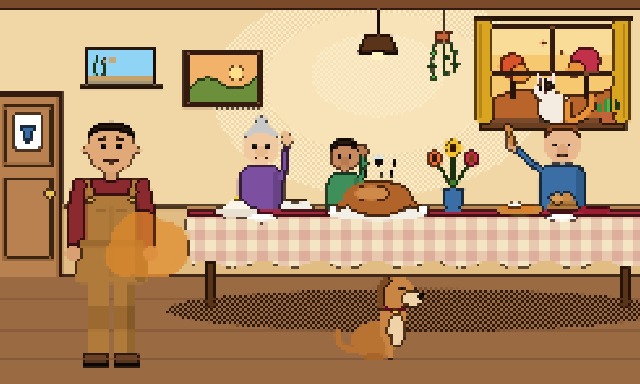
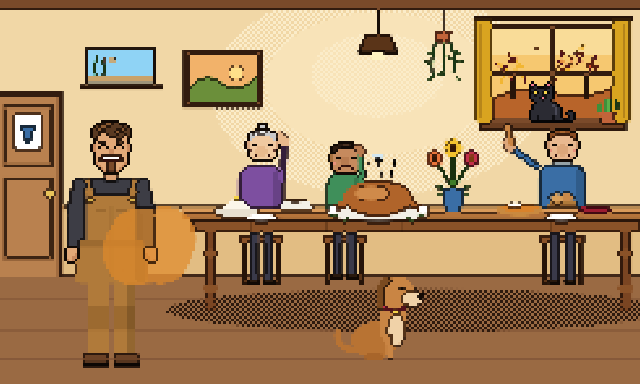
Release: Feed the Fart drawn from his photos

diff --git a/feed-the-fart/index.html b/feed-the-fart/index.html
@@ -101,6 +101,10 @@ svg.noses .fanHand{display:inline;animation:fan .3s ease-in-out infinite alterna
 svg.noses .pmouth{display:none}
 .pmouthEw{display:none}
 svg.noses .pmouthEw{display:inline}
+#scene image{image-rendering:pixelated}
+.fall{animation:fall 7s linear infinite;transform-box:view-box}
+.fall.f1{animation-delay:-2.5s;animation-duration:8s}.fall.f2{animation-delay:-5s;animation-duration:6.5s}
+@keyframes fall{0%{transform:translate(0,-10px)}25%{transform:translate(10px,25px)}50%{transform:translate(-4px,55px)}75%{transform:translate(8px,85px)}100%{transform:translate(0,115px)}}
 #flyWing{animation:buzz .08s linear infinite alternate}
 @keyframes buzz{to{opacity:.2}}
 #flyLoop{animation:loop 3s linear infinite;transform-box:view-box;transform-origin:470px 195px}
@@ -121,7 +125,7 @@ svg.noses #fishHide{transform:translate(-14px,-6px) scale(.6);opacity:.55}
 svg.wilt #hangLeaves{transform:scaleY(1.2) scaleX(.8);filter:saturate(.15) brightness(.75)}
 #cactus{transition:transform .6s ease-in;transform-box:view-box;transform-origin:756px 148px}
 svg.wilt #cactus{transform:rotate(85deg)}
-@media (prefers-reduced-motion:reduce){.pull.ready,#tip,#flyLoop,#flyWing,svg.noses .fanHand,.steam path,#fish{animation:none}}
+@media (prefers-reduced-motion:reduce){.pull.ready,#tip,#flyLoop,#flyWing,svg.noses .fanHand,.steam path,#fish,.fall{animation:none}}
 </style>
 </head>
 <body>
@@ -139,12 +143,10 @@ svg.wilt #cactus{transform:rotate(85deg)}
   <div class="stage" id="stage">
     <svg id="scene" viewBox="0 0 800 460" role="img" aria-label="Thanksgiving dinner. The plumber stands by the table, with the family, a dog under the table and a cat on the windowsill." data-face="normal">
       <defs>
-        <!-- Dithers line up with the game's pixels: one canvas pixel is 800/256 = 3.125 SVG units.
-             The gingham is faint on purpose: stronger checks crossed the outline pass's
-             brightness jump and every square got a dark box round it. -->
+        <!-- Dithers line up with the game's pixels: one canvas pixel is 800/256 = 3.125 SVG units. -->
         <pattern id="dLight" width="6.25" height="6.25" patternUnits="userSpaceOnUse"><rect width="3.125" height="3.125" fill="#fbecc9"/><rect x="3.125" y="3.125" width="3.125" height="3.125" fill="#fbecc9"/></pattern>
         <pattern id="dShade" width="6.25" height="6.25" patternUnits="userSpaceOnUse"><rect width="3.125" height="3.125" fill="#6e4528"/><rect x="3.125" y="3.125" width="3.125" height="3.125" fill="#6e4528"/></pattern>
-        <pattern id="gingham" width="25" height="25" patternUnits="userSpaceOnUse"><rect width="25" height="25" fill="#f4e6c4"/><rect width="12.5" height="25" fill="#a01830" opacity=".15"/><rect width="25" height="12.5" fill="#a01830" opacity=".15"/></pattern>
+        <clipPath id="winClip"><rect x="608" y="36" width="144" height="106"/></clipPath>
       </defs>
       <!-- room -->
       <rect width="800" height="330" fill="#f1d7a6"/>
@@ -163,9 +165,7 @@ svg.wilt #cactus{transform:rotate(85deg)}
       <path d="M537 38h22l-3 14h-16z" fill="#c2643a"/>
       <g id="hangLeaves">
         <path d="M540 50q-8 20-4 44M548 52q0 22 2 40M556 50q8 18 4 38" stroke="#3f8f3a" stroke-width="3" fill="none"/>
-        <ellipse cx="537" cy="64" rx="5" ry="3" fill="#5ab04a"/><ellipse cx="535" cy="80" rx="5" ry="3" fill="#3f8f3a"/><ellipse cx="537" cy="94" rx="5" ry="3" fill="#5ab04a"/>
-        <ellipse cx="552" cy="70" rx="5" ry="3" fill="#3f8f3a"/><ellipse cx="551" cy="88" rx="5" ry="3" fill="#5ab04a"/>
-        <ellipse cx="562" cy="62" rx="5" ry="3" fill="#5ab04a"/><ellipse cx="563" cy="78" rx="5" ry="3" fill="#3f8f3a"/>
+        <path transform="translate(538 62) rotate(160)" d="M0 0q6 -4.0 12 0q-6 4.0 -12 0z" fill="#4f9a3a"/><path transform="translate(538 62) rotate(160)" d="M1 0h8.4" stroke="#8fd06a" stroke-width="1.6"/><path transform="translate(536 78) rotate(200)" d="M0 0q6 -4.0 12 0q-6 4.0 -12 0z" fill="#3f7d2a"/><path transform="translate(536 78) rotate(200)" d="M1 0h8.4" stroke="#8fd06a" stroke-width="1.6"/><path transform="translate(537 92) rotate(150)" d="M0 0q6 -4.0 12 0q-6 4.0 -12 0z" fill="#4f9a3a"/><path transform="translate(537 92) rotate(150)" d="M1 0h8.4" stroke="#8fd06a" stroke-width="1.6"/><path transform="translate(551 68) rotate(20)" d="M0 0q6 -4.0 12 0q-6 4.0 -12 0z" fill="#3f7d2a"/><path transform="translate(551 68) rotate(20)" d="M1 0h8.4" stroke="#8fd06a" stroke-width="1.6"/><path transform="translate(551 86) rotate(160)" d="M0 0q6 -4.0 12 0q-6 4.0 -12 0z" fill="#4f9a3a"/><path transform="translate(551 86) rotate(160)" d="M1 0h8.4" stroke="#8fd06a" stroke-width="1.6"/><path transform="translate(560 60) rotate(30)" d="M0 0q6 -4.0 12 0q-6 4.0 -12 0z" fill="#4f9a3a"/><path transform="translate(560 60) rotate(30)" d="M1 0h8.4" stroke="#8fd06a" stroke-width="1.6"/><path transform="translate(562 76) rotate(-20)" d="M0 0q6 -4.0 12 0q-6 4.0 -12 0z" fill="#3f7d2a"/><path transform="translate(562 76) rotate(-20)" d="M1 0h8.4" stroke="#8fd06a" stroke-width="1.6"/><path transform="translate(561 90) rotate(40)" d="M0 0q6 -4.0 12 0q-6 4.0 -12 0z" fill="#4f9a3a"/><path transform="translate(561 90) rotate(40)" d="M1 0h8.4" stroke="#8fd06a" stroke-width="1.6"/>
       </g>
       <!-- a picture on the wall: hills at sunset -->
       <rect x="236" y="60" width="96" height="70" fill="#7a4a2a"/><rect x="243" y="67" width="82" height="56" fill="#f2b26a"/>
@@ -191,9 +191,9 @@ svg.wilt #cactus{transform:rotate(85deg)}
       <rect x="608" y="36" width="144" height="106" fill="#f6c870"/>
       <rect x="608" y="36" width="144" height="30" fill="#f9dc98"/>
       <path d="M608 118q30-18 70-8t74-6v38h-144z" fill="#b8642a"/>
-      <rect x="628" y="88" width="6" height="30" fill="#5a3418"/><circle cx="631" cy="80" r="16" fill="#d9542a"/><circle cx="642" cy="90" r="11" fill="#e8923a"/>
-      <rect x="716" y="84" width="6" height="34" fill="#5a3418"/><circle cx="719" cy="74" r="18" fill="#c2304a"/><circle cx="706" cy="84" r="10" fill="#e8923a"/>
-      <circle cx="668" cy="52" r="3" fill="#d9542a"/><circle cx="690" cy="64" r="3" fill="#e8923a"/>
+      <rect x="628" y="88" width="6" height="30" fill="#5a3418"/><path transform="translate(644 90) rotate(76)" d="M0 0q5 -3.3 10 0q-5 3.3 -10 0z" fill="#c2304a"/><path transform="translate(637 71) rotate(154)" d="M0 0q5 -3.3 10 0q-5 3.3 -10 0z" fill="#d9542a"/><path transform="translate(618 92) rotate(339)" d="M0 0q5 -3.3 10 0q-5 3.3 -10 0z" fill="#f2b632"/><path transform="translate(617 80) rotate(207)" d="M0 0q5 -3.3 10 0q-5 3.3 -10 0z" fill="#c2304a"/><path transform="translate(626 72) rotate(273)" d="M0 0q5 -3.3 10 0q-5 3.3 -10 0z" fill="#d9542a"/><path transform="translate(625 80) rotate(118)" d="M0 0q5 -3.3 10 0q-5 3.3 -10 0z" fill="#d9542a"/><path transform="translate(612 76) rotate(26)" d="M0 0q5 -3.3 10 0q-5 3.3 -10 0z" fill="#f2b632"/><path transform="translate(630 93) rotate(219)" d="M0 0q5 -3.3 10 0q-5 3.3 -10 0z" fill="#e8923a"/><path transform="translate(629 89) rotate(87)" d="M0 0q5 -3.3 10 0q-5 3.3 -10 0z" fill="#c2304a"/><path transform="translate(627 83) rotate(210)" d="M0 0q5 -3.3 10 0q-5 3.3 -10 0z" fill="#c2304a"/><path transform="translate(621 93) rotate(123)" d="M0 0q5 -3.3 10 0q-5 3.3 -10 0z" fill="#f2b632"/><path transform="translate(631 87) rotate(158)" d="M0 0q5 -3.3 10 0q-5 3.3 -10 0z" fill="#e8923a"/><path transform="translate(618 85) rotate(66)" d="M0 0q5 -3.3 10 0q-5 3.3 -10 0z" fill="#f2b632"/><path transform="translate(635 72) rotate(54)" d="M0 0q5 -3.3 10 0q-5 3.3 -10 0z" fill="#f2b632"/><path transform="translate(635 69) rotate(130)" d="M0 0q5 -3.3 10 0q-5 3.3 -10 0z" fill="#d9542a"/><path transform="translate(634 70) rotate(152)" d="M0 0q5 -3.3 10 0q-5 3.3 -10 0z" fill="#c2304a"/><path transform="translate(627 86) rotate(212)" d="M0 0q5 -3.3 10 0q-5 3.3 -10 0z" fill="#f2b632"/><path transform="translate(623 82) rotate(134)" d="M0 0q5 -3.3 10 0q-5 3.3 -10 0z" fill="#c2304a"/><path transform="translate(634 87) rotate(286)" d="M0 0q5 -3.3 10 0q-5 3.3 -10 0z" fill="#f2b632"/><path transform="translate(620 83) rotate(141)" d="M0 0q5 -3.3 10 0q-5 3.3 -10 0z" fill="#d9542a"/><path transform="translate(645 80) rotate(181)" d="M0 0q5 -3.3 10 0q-5 3.3 -10 0z" fill="#f2b632"/><path transform="translate(623 90) rotate(327)" d="M0 0q5 -3.3 10 0q-5 3.3 -10 0z" fill="#d9542a"/><path transform="translate(644 85) rotate(102)" d="M0 0q5 -3.3 10 0q-5 3.3 -10 0z" fill="#f2b632"/><path transform="translate(622 92) rotate(270)" d="M0 0q5 -3.3 10 0q-5 3.3 -10 0z" fill="#f2b632"/><path transform="translate(627 93) rotate(337)" d="M0 0q5 -3.3 10 0q-5 3.3 -10 0z" fill="#e8923a"/><path transform="translate(631 88) rotate(357)" d="M0 0q5 -3.3 10 0q-5 3.3 -10 0z" fill="#c2304a"/>
+      <rect x="716" y="84" width="6" height="34" fill="#5a3418"/><path transform="translate(693 81) rotate(5)" d="M0 0q5 -3.3 10 0q-5 3.3 -10 0z" fill="#d9542a"/><path transform="translate(694 71) rotate(130)" d="M0 0q5 -3.3 10 0q-5 3.3 -10 0z" fill="#e8923a"/><path transform="translate(692 78) rotate(211)" d="M0 0q5 -3.3 10 0q-5 3.3 -10 0z" fill="#d9542a"/><path transform="translate(699 80) rotate(105)" d="M0 0q5 -3.3 10 0q-5 3.3 -10 0z" fill="#d9542a"/><path transform="translate(707 68) rotate(289)" d="M0 0q5 -3.3 10 0q-5 3.3 -10 0z" fill="#f2b632"/><path transform="translate(695 66) rotate(217)" d="M0 0q5 -3.3 10 0q-5 3.3 -10 0z" fill="#d9542a"/><path transform="translate(702 83) rotate(218)" d="M0 0q5 -3.3 10 0q-5 3.3 -10 0z" fill="#c2304a"/><path transform="translate(697 81) rotate(166)" d="M0 0q5 -3.3 10 0q-5 3.3 -10 0z" fill="#d9542a"/><path transform="translate(726 81) rotate(222)" d="M0 0q5 -3.3 10 0q-5 3.3 -10 0z" fill="#e8923a"/><path transform="translate(727 78) rotate(28)" d="M0 0q5 -3.3 10 0q-5 3.3 -10 0z" fill="#c2304a"/><path transform="translate(708 62) rotate(24)" d="M0 0q5 -3.3 10 0q-5 3.3 -10 0z" fill="#d9542a"/><path transform="translate(693 83) rotate(11)" d="M0 0q5 -3.3 10 0q-5 3.3 -10 0z" fill="#f2b632"/><path transform="translate(720 81) rotate(348)" d="M0 0q5 -3.3 10 0q-5 3.3 -10 0z" fill="#d9542a"/><path transform="translate(715 65) rotate(114)" d="M0 0q5 -3.3 10 0q-5 3.3 -10 0z" fill="#c2304a"/><path transform="translate(720 88) rotate(314)" d="M0 0q5 -3.3 10 0q-5 3.3 -10 0z" fill="#c2304a"/><path transform="translate(692 73) rotate(256)" d="M0 0q5 -3.3 10 0q-5 3.3 -10 0z" fill="#c2304a"/><path transform="translate(704 75) rotate(242)" d="M0 0q5 -3.3 10 0q-5 3.3 -10 0z" fill="#d9542a"/><path transform="translate(706 81) rotate(307)" d="M0 0q5 -3.3 10 0q-5 3.3 -10 0z" fill="#d9542a"/><path transform="translate(707 73) rotate(357)" d="M0 0q5 -3.3 10 0q-5 3.3 -10 0z" fill="#c2304a"/><path transform="translate(727 83) rotate(333)" d="M0 0q5 -3.3 10 0q-5 3.3 -10 0z" fill="#d9542a"/><path transform="translate(691 78) rotate(228)" d="M0 0q5 -3.3 10 0q-5 3.3 -10 0z" fill="#c2304a"/><path transform="translate(730 79) rotate(195)" d="M0 0q5 -3.3 10 0q-5 3.3 -10 0z" fill="#d9542a"/><path transform="translate(711 70) rotate(249)" d="M0 0q5 -3.3 10 0q-5 3.3 -10 0z" fill="#f2b632"/><path transform="translate(727 79) rotate(58)" d="M0 0q5 -3.3 10 0q-5 3.3 -10 0z" fill="#d9542a"/><path transform="translate(724 81) rotate(299)" d="M0 0q5 -3.3 10 0q-5 3.3 -10 0z" fill="#d9542a"/><path transform="translate(689 79) rotate(149)" d="M0 0q5 -3.3 10 0q-5 3.3 -10 0z" fill="#e8923a"/><path transform="translate(711 60) rotate(319)" d="M0 0q5 -3.3 10 0q-5 3.3 -10 0z" fill="#f2b632"/><path transform="translate(706 61) rotate(72)" d="M0 0q5 -3.3 10 0q-5 3.3 -10 0z" fill="#c2304a"/><path transform="translate(697 77) rotate(15)" d="M0 0q5 -3.3 10 0q-5 3.3 -10 0z" fill="#e8923a"/><path transform="translate(727 74) rotate(302)" d="M0 0q5 -3.3 10 0q-5 3.3 -10 0z" fill="#c2304a"/>
+      <g clip-path="url(#winClip)"><g class="fall f0"><path transform="translate(650 40) rotate(20)" d="M0 0q4 -2.7 8 0q-4 2.7 -8 0z" fill="#e8923a"/></g><g class="fall f1"><path transform="translate(690 40) rotate(140)" d="M0 0q4 -2.7 8 0q-4 2.7 -8 0z" fill="#d9542a"/></g><g class="fall f2"><path transform="translate(735 40) rotate(70)" d="M0 0q4 -2.7 8 0q-4 2.7 -8 0z" fill="#f2b632"/></g></g>
       <path d="M680 36v106M608 89h144" stroke="#7a4a2a" stroke-width="6"/>
       <rect x="584" y="20" width="192" height="6" fill="#5a3418"/>
       <path d="M586 24h22v120q-10 8-22 0z" fill="#d9a420"/><path d="M594 28v112" stroke="#b5841a" stroke-width="3"/>
@@ -204,43 +204,27 @@ svg.wilt #cactus{transform:rotate(85deg)}
         <rect x="745" y="120" width="3" height="22" fill="#5ab04a"/>
         <path d="M736 136h20l-3 12h-14z" fill="#c2643a"/>
       </g>
-      <g id="cat">
-        <path d="M702 146q30-10 24-34" stroke="#e8923a" stroke-width="7" fill="none" stroke-linecap="round"/>
-        <ellipse cx="682" cy="130" rx="20" ry="18" fill="#f4ece0"/>
-        <path d="M690 116q12 4 12 18t-10 12z" fill="#e8923a"/><path d="M664 136q4 8 12 10l-12 0z" fill="#4a3020"/>
-        <circle cx="670" cy="108" r="13" fill="#f4ece0"/>
-        <path d="M670 95q10 2 13 12l-13 2z" fill="#4a3020"/><path d="M658 104q2-8 10-9l-4 10z" fill="#e8923a"/>
-        <path d="M659 101l2-14 9 9zM672 96l9-9 1 14z" fill="#f4ece0"/><path d="M662 98l1-7 4 4zM675 95l4-4 1 6z" fill="#f2a7b8"/>
-        <circle cx="665" cy="107" r="2.5" fill="#2a1a0e"/><circle cx="675" cy="107" r="2.5" fill="#2a1a0e"/><path d="M669 112h3" stroke="#f27d92" stroke-width="2"/>
-      </g>
-      <!-- family behind the table. Generic people, not anyone real. -->
+      <g id="cat"><image data-spr="cat" x="650" y="96.875"/></g>
+      <!-- family behind the table. Generic people, not anyone real. Their faces are
+           pixel sprites: one normal, one for "ew" (shown while they hold their noses). -->
       <g class="person">
         <rect x="302" y="198" width="56" height="70" rx="18" fill="#7d4fa0"/><rect x="344" y="204" width="12" height="62" rx="6" fill="#000" opacity=".16"/>
-        <circle cx="330" cy="176" r="22" fill="#f0c9a0"/>
-        <path d="M308 172q2-22 22-22t22 22q-6-12-22-12t-22 12z" fill="#c9c9c9"/><circle cx="330" cy="148" r="9" fill="#c9c9c9"/>
-        <circle cx="322" cy="176" r="2.5" fill="#222"/><circle cx="338" cy="176" r="2.5" fill="#222"/>
-        <path class="pmouth" d="M323 186q7 5 14 0" stroke="#7a3b2a" stroke-width="2.5" fill="none"/>
-        <path class="pmouthEw" d="M323 189q7-5 14 0" stroke="#7a3b2a" stroke-width="2.5" fill="none"/>
+        <image data-spr="famA" x="309.375" y="146.875" class="pmouth"/>
+        <image data-spr="famAEw" x="309.375" y="146.875" class="pmouthEw"/>
         <circle class="noseHand" cx="330" cy="182" r="7" fill="#e8b98c"/>
         <g class="fanHand"><path d="M356 214l22-34" stroke="#7d4fa0" stroke-width="9" stroke-linecap="round"/><ellipse cx="381" cy="174" rx="7" ry="10" fill="#e8b98c"/></g>
       </g>
       <g class="person">
         <rect x="408" y="206" width="44" height="60" rx="16" fill="#3f8f5a"/><rect x="441" y="212" width="10" height="52" rx="5" fill="#000" opacity=".16"/>
-        <circle cx="430" cy="188" r="18" fill="#c68a5e"/>
-        <path d="M412 184q0-18 18-18t18 18q-4-8-18-8t-18 8z" fill="#2a1a10"/>
-        <circle cx="424" cy="188" r="2.3" fill="#222"/><circle cx="436" cy="188" r="2.3" fill="#222"/>
-        <path class="pmouth" d="M424 196q6 5 12 0" stroke="#5a2a1a" stroke-width="2.5" fill="none"/>
-        <path class="pmouthEw" d="M424 199q6-5 12 0" stroke="#5a2a1a" stroke-width="2.5" fill="none"/>
+        <image data-spr="famB" x="409.375" y="168.75" class="pmouth"/>
+        <image data-spr="famBEw" x="409.375" y="168.75" class="pmouthEw"/>
         <circle class="noseHand" cx="430" cy="193" r="6" fill="#b87b50"/>
         <g class="fanHand"><path d="M450 220l18-30" stroke="#3f8f5a" stroke-width="8" stroke-linecap="round"/><ellipse cx="470" cy="185" rx="6" ry="9" fill="#b87b50"/></g>
       </g>
       <g class="person">
         <rect x="662" y="196" width="58" height="72" rx="18" fill="#3a6ea5"/><rect x="706" y="202" width="12" height="64" rx="6" fill="#000" opacity=".16"/>
-        <circle cx="691" cy="174" r="22" fill="#e9b88f"/>
-        <path d="M669 170q0-24 22-24t22 24q-4-14-22-14t-22 14z" fill="#8a4b22"/>
-        <circle cx="683" cy="174" r="2.5" fill="#222"/><circle cx="699" cy="174" r="2.5" fill="#222"/>
-        <path class="pmouth" d="M684 185q7 5 14 0" stroke="#7a3b2a" stroke-width="2.5" fill="none"/>
-        <path class="pmouthEw" d="M684 188q7-5 14 0" stroke="#7a3b2a" stroke-width="2.5" fill="none"/>
+        <image data-spr="famC" x="668.75" y="153.125" class="pmouth"/>
+        <image data-spr="famCEw" x="668.75" y="153.125" class="pmouthEw"/>
         <circle class="noseHand" cx="691" cy="180" r="7" fill="#dca67a"/>
         <g class="fanHand"><path d="M664 212l-14-34" stroke="#3a6ea5" stroke-width="9" stroke-linecap="round"/><ellipse cx="648" cy="172" rx="7" ry="10" fill="#dca67a"/></g>
       </g>
@@ -249,15 +233,24 @@ svg.wilt #cactus{transform:rotate(85deg)}
       <ellipse cx="470" cy="68" rx="10" ry="5" fill="#fff4c2"/>
       <!-- table -->
       <ellipse cx="515" cy="372" rx="300" ry="26" fill="url(#dShade)"/>
-      <rect x="262" y="300" width="12" height="70" fill="#5a3418"/><rect x="760" y="300" width="12" height="70" fill="#5a3418"/>
-      <path d="M240 255h550v62q-20 8-34 0t-34 0-34 0-34 0-34 0-34 0-34 0-34 0-34 0-34 0-34 0-34 0-34 0-34 0-34 0-34 0z" fill="url(#gingham)"/>
-      <rect x="240" y="252" width="550" height="8" fill="#a32a3e"/>
+      <!-- a wooden table (it had a gingham cloth for an evening; Randi's references are wood),
+           with the family's chairs and legs under it -->
+      <rect x="306" y="291" width="6" height="50" fill="#5a3418"/><rect x="348" y="291" width="6" height="50" fill="#5a3418"/><rect x="303" y="283" width="54" height="8" fill="#8a5228"/><rect x="315" y="278" width="12" height="58" fill="#3a3a4a"/><rect x="333" y="278" width="12" height="58" fill="#3a3a4a"/><rect x="313" y="334" width="15" height="7" rx="2" fill="#2a1a0e"/><rect x="332" y="334" width="15" height="7" rx="2" fill="#2a1a0e"/>
+      <rect x="406" y="291" width="6" height="50" fill="#5a3418"/><rect x="448" y="291" width="6" height="50" fill="#5a3418"/><rect x="403" y="283" width="54" height="8" fill="#8a5228"/><rect x="415" y="278" width="12" height="52" fill="#3a3a4a"/><rect x="433" y="278" width="12" height="52" fill="#3a3a4a"/><rect x="413" y="328" width="15" height="7" rx="2" fill="#2a1a0e"/><rect x="432" y="328" width="15" height="7" rx="2" fill="#2a1a0e"/>
+      <rect x="667" y="291" width="6" height="50" fill="#5a3418"/><rect x="709" y="291" width="6" height="50" fill="#5a3418"/><rect x="664" y="283" width="54" height="8" fill="#8a5228"/><rect x="676" y="278" width="12" height="58" fill="#3a3a4a"/><rect x="694" y="278" width="12" height="58" fill="#3a3a4a"/><rect x="674" y="334" width="15" height="7" rx="2" fill="#2a1a0e"/><rect x="693" y="334" width="15" height="7" rx="2" fill="#2a1a0e"/>
+      <rect x="262" y="276" width="14" height="96" fill="#7a4522"/><rect x="760" y="276" width="14" height="96" fill="#7a4522"/>
+      <ellipse cx="269" cy="304" rx="10" ry="5" fill="#8a5228"/><ellipse cx="269" cy="346" rx="10" ry="5" fill="#8a5228"/>
+      <ellipse cx="767" cy="304" rx="10" ry="5" fill="#8a5228"/><ellipse cx="767" cy="346" rx="10" ry="5" fill="#8a5228"/>
+      <rect x="236" y="250" width="558" height="12" fill="#b5733a"/><rect x="236" y="250" width="558" height="3" fill="#d99a5a"/>
+      <rect x="244" y="262" width="542" height="18" fill="#8a5228"/><rect x="244" y="262" width="542" height="3" fill="#5a3418"/>
+      <path d="M318 265v15M408 265v15M498 265v15M588 265v15M678 265v15" stroke="#6e3f1c" stroke-width="2"/>
       <!-- food on the table -->
       <ellipse cx="300" cy="254" rx="26" ry="6" fill="#e8e0d0"/><path d="M282 252q18-26 36 0z" fill="#fbf6e9"/><rect x="296" y="236" width="8" height="5" fill="#f5d34a"/>
       <path d="M352 252l6-14h26l8 14z" fill="#f2efe6"/><ellipse cx="371" cy="240" rx="13" ry="3" fill="#8a5a2a"/>
       <ellipse cx="470" cy="256" rx="60" ry="9" fill="#f2efe6"/>
       <ellipse cx="470" cy="238" rx="42" ry="22" fill="#b0642a"/><ellipse cx="462" cy="232" rx="20" ry="8" fill="#cf8a4a"/>
       <path d="M432 244l-14 6M508 244l14 6" stroke="#b0642a" stroke-width="9" stroke-linecap="round"/><circle cx="416" cy="251" r="5" fill="#fff"/><circle cx="524" cy="251" r="5" fill="#fff"/>
+      <path transform="translate(424 257) rotate(170)" d="M0 0q5.5 -3.7 11 0q-5.5 3.7 -11 0z" fill="#3f8f3a"/><path transform="translate(424 257) rotate(170)" d="M1 0h7.7" stroke="#8fd06a" stroke-width="1.6"/><path transform="translate(516 257) rotate(10)" d="M0 0q5.5 -3.7 11 0q-5.5 3.7 -11 0z" fill="#3f8f3a"/><path transform="translate(516 257) rotate(10)" d="M1 0h7.7" stroke="#8fd06a" stroke-width="1.6"/><path transform="translate(436 261) rotate(150)" d="M0 0q5.5 -3.7 11 0q-5.5 3.7 -11 0z" fill="#3f8f3a"/><path transform="translate(436 261) rotate(150)" d="M1 0h7.7" stroke="#8fd06a" stroke-width="1.6"/><path transform="translate(504 261) rotate(30)" d="M0 0q5.5 -3.7 11 0q-5.5 3.7 -11 0z" fill="#3f8f3a"/><path transform="translate(504 261) rotate(30)" d="M1 0h7.7" stroke="#8fd06a" stroke-width="1.6"/>
       <g class="steam"><path d="M456 214q-5-6 0-12t0-12" /><path d="M472 210q5-6 0-12t0-12"/><path d="M488 214q-5-6 0-12t0-12"/></g>
       <ellipse cx="640" cy="252" rx="28" ry="7" fill="#c9893f"/><ellipse cx="640" cy="249" rx="22" ry="5" fill="#d9822b"/><ellipse cx="634" cy="246" rx="7" ry="3" fill="#fff"/>
       <ellipse cx="730" cy="252" rx="20" ry="5" fill="#9b1b30"/>
@@ -269,6 +262,7 @@ svg.wilt #cactus{transform:rotate(85deg)}
         <g class="stem" id="stemL"><path d="M560 228q-10-20-22-36" stroke="#3f7d2a" stroke-width="4" fill="none"/><circle cx="538" cy="190" r="10" fill="#e8743b"/><circle cx="538" cy="190" r="4" fill="#7a3a10"/></g>
         <g class="stem" id="stemM"><path d="M560 228v-48" stroke="#3f7d2a" stroke-width="4"/><circle cx="560" cy="178" r="11" fill="#f2c230"/><circle cx="560" cy="178" r="4.5" fill="#7a3a10"/></g>
         <g class="stem" id="stemR"><path d="M560 228q10-20 22-36" stroke="#3f7d2a" stroke-width="4" fill="none"/><circle cx="582" cy="190" r="10" fill="#c2304a"/><circle cx="582" cy="190" r="4" fill="#7a3a10"/></g>
+        <path transform="translate(552 229) rotate(205)" d="M0 0q7.5 -5.0 15 0q-7.5 5.0 -15 0z" fill="#3f7d2a"/><path transform="translate(552 229) rotate(205)" d="M1 0h10.5" stroke="#8fd06a" stroke-width="1.6"/><path transform="translate(568 229) rotate(-25)" d="M0 0q7.5 -5.0 15 0q-7.5 5.0 -15 0z" fill="#3f7d2a"/><path transform="translate(568 229) rotate(-25)" d="M1 0h10.5" stroke="#8fd06a" stroke-width="1.6"/><path transform="translate(554 232) rotate(170)" d="M0 0q7.5 -5.0 15 0q-7.5 5.0 -15 0z" fill="#5ab04a"/><path transform="translate(554 232) rotate(170)" d="M1 0h10.5" stroke="#8fd06a" stroke-width="1.6"/><path transform="translate(566 232) rotate(10)" d="M0 0q7.5 -5.0 15 0q-7.5 5.0 -15 0z" fill="#5ab04a"/><path transform="translate(566 232) rotate(10)" d="M1 0h10.5" stroke="#8fd06a" stroke-width="1.6"/>
         <path d="M546 226h28l-4 28h-20z" fill="#3a6ea5"/>
       </g>
       <!-- a fly over the turkey -->
@@ -288,8 +282,8 @@ svg.wilt #cactus{transform:rotate(85deg)}
         <g id="dogEyes2"><path d="M496 346l8 2" stroke="#2a1a0e" stroke-width="2.5"/></g>
         <g id="dogPaw"><rect x="494" y="402" width="9" height="28" rx="4" fill="#c98544"/></g>
       </g>
-      <!-- the plumber: fit, in tan canvas bib overalls over a long-sleeve maroon shirt, from
-           the photo Randi sent 20 Nov; no cap, no logo, nothing lettered (card #55) -->
+      <!-- the plumber: lean, tousled brown hair, mustache and goatee, tan bib overalls over a
+           charcoal long-sleeve shirt, from family photos Randi sent 20 Nov (kept out of the repo); no cap, no logo, nothing lettered (card #55) -->
       <g id="him">
         <g id="legs">
           <rect x="122" y="330" width="24" height="98" fill="#b07a3a"/><rect x="154" y="330" width="24" height="98" fill="#b07a3a"/>
@@ -298,7 +292,7 @@ svg.wilt #cactus{transform:rotate(85deg)}
           <rect x="116" y="434" width="32" height="6" fill="#1d120a"/><rect x="152" y="434" width="32" height="6" fill="#1d120a"/>
         </g>
         <g id="belly">
-          <rect x="112" y="214" width="76" height="96" rx="16" fill="#8a2a2e"/>
+          <rect x="112" y="214" width="76" height="96" rx="16" fill="#3d3d45"/>
           <rect x="112" y="288" width="76" height="52" rx="6" fill="#b07a3a"/>
           <rect x="124" y="236" width="52" height="58" fill="#b07a3a"/>
           <path d="M128 237l-4-22M172 237l4-22" stroke="#b07a3a" stroke-width="7"/>
@@ -308,48 +302,27 @@ svg.wilt #cactus{transform:rotate(85deg)}
           <rect x="175" y="218" width="12" height="120" rx="5" fill="#000" opacity=".16"/>
         </g>
         <rect x="141" y="198" width="18" height="18" fill="#d9a074"/>
-        <path d="M138 214q12 8 24 0" stroke="#74222a" stroke-width="4" fill="none"/>
+        <path d="M138 214q12 8 24 0" stroke="#2a2a30" stroke-width="4" fill="none"/>
         <g id="armDown">
-          <path d="M188 222l6 30" stroke="#8a2a2e" stroke-width="18" stroke-linecap="round"/>
-          <path d="M194 252l3 46" stroke="#8a2a2e" stroke-width="15" stroke-linecap="round"/>
-          <circle cx="197" cy="304" r="9" fill="#d9a074"/>
+          <path d="M188 222l6 30" stroke="#3d3d45" stroke-width="18" stroke-linecap="round"/>
+          <path d="M194 252l3 46" stroke="#3d3d45" stroke-width="15" stroke-linecap="round"/>
+          <image data-spr="handR" x="187.5" y="293.75"/>
         </g>
         <g id="armOut" role="button" aria-label="Pull his finger">
-          <path d="M186 224l34 8" stroke="#8a2a2e" stroke-width="18" stroke-linecap="round"/>
-          <path d="M220 232l38 4" stroke="#8a2a2e" stroke-width="15" stroke-linecap="round"/>
-          <circle cx="266" cy="236" r="10" fill="#d9a074"/>
-          <rect x="270" y="230" width="22" height="8" rx="4" fill="#d9a074"/>
-          <circle id="tip" cx="292" cy="234" r="6" fill="none" stroke="#fff" stroke-width="3"/>
+          <path d="M186 224l34 8" stroke="#3d3d45" stroke-width="18" stroke-linecap="round"/>
+          <path d="M220 232l38 4" stroke="#3d3d45" stroke-width="15" stroke-linecap="round"/>
+          <image data-spr="handPoint" x="256.25" y="225"/>
+          <circle id="tip" cx="295" cy="236" r="6" fill="none" stroke="#fff" stroke-width="3"/>
           <circle cx="282" cy="234" r="34" fill="transparent"/>
         </g>
-        <path d="M112 222l-6 30" stroke="#8a2a2e" stroke-width="18" stroke-linecap="round"/>
-        <path d="M106 252l-2 46" stroke="#8a2a2e" stroke-width="15" stroke-linecap="round"/>
-        <circle cx="104" cy="304" r="9" fill="#d9a074"/>
-        <circle cx="120" cy="180" r="6" fill="#d9a074"/><circle cx="180" cy="180" r="6" fill="#d9a074"/>
-        <circle cx="150" cy="178" r="30" fill="#e2a978"/>
-        <path d="M121 172q-1-26 29-26t29 26q-4-14-29-15t-29 15z" fill="#22160e"/>
-        <g class="face f-normal">
-          <circle cx="140" cy="176" r="3" fill="#1d120a"/><circle cx="160" cy="176" r="3" fill="#1d120a"/>
-          <path d="M134 168l10-2M156 166l10 2" stroke="#4a2f1d" stroke-width="3"/>
-          <path d="M140 191q10 7 20 0" stroke="#7a3b2a" stroke-width="3" fill="none"/>
-        </g>
-        <g class="face f-eat">
-          <path d="M136 176h8M156 176h8" stroke="#1d120a" stroke-width="3"/>
-          <path d="M134 167l10-2M156 165l10 2" stroke="#4a2f1d" stroke-width="3"/>
-          <ellipse cx="150" cy="193" rx="6" ry="5" fill="#5a2318"/>
-        </g>
-        <g class="face f-smug">
-          <path d="M136 177q4-3 8 0M156 177q4-3 8 0" stroke="#1d120a" stroke-width="3" fill="none"/>
-          <path d="M134 164l10 1M156 165l10-1" stroke="#4a2f1d" stroke-width="3"/>
-          <path d="M142 192q8 2 16-4" stroke="#7a3b2a" stroke-width="3" fill="none"/>
-        </g>
-        <g class="face f-frozen">
-          <circle cx="140" cy="175" r="6.5" fill="#fff" stroke="#1d120a" stroke-width="2"/><circle cx="160" cy="175" r="6.5" fill="#fff" stroke="#1d120a" stroke-width="2"/>
-          <circle cx="140" cy="175" r="1.6" fill="#1d120a"/><circle cx="160" cy="175" r="1.6" fill="#1d120a"/>
-          <path d="M132 163l12 3M156 166l12-3" stroke="#4a2f1d" stroke-width="3"/>
-          <ellipse cx="150" cy="194" rx="4" ry="5" fill="#5a2318"/>
-          <path d="M178 160q5 8 0 12q-5-4 0-12z" fill="#8fd3f5"/>
-        </g>
+        <path d="M112 222l-6 30" stroke="#3d3d45" stroke-width="18" stroke-linecap="round"/>
+        <path d="M106 252l-2 46" stroke="#3d3d45" stroke-width="15" stroke-linecap="round"/>
+        <image data-spr="handL" x="93.75" y="293.75"/>
+        <!-- his head and hands are hand-pixelled sprites (SCENE_SPRITES below); one per face -->
+        <g class="face f-normal"><image data-spr="himNormal" x="125" y="143.75"/></g>
+        <g class="face f-eat"><image data-spr="himEat" x="125" y="143.75"/></g>
+        <g class="face f-smug"><image data-spr="himSmug" x="125" y="143.75"/></g>
+        <g class="face f-frozen"><image data-spr="himFrozen" x="125" y="143.75"/><path d="M182 158q5 8 0 12q-5-4 0-12z" fill="#8fd3f5"/></g>
       </g>
       <g id="clouds"></g>
     </svg>
@@ -799,6 +772,24 @@ document.addEventListener('keydown', e => {
 });
 update();
 
+// Hand-pixelled sprites for faces and hands (decided 20 Nov, the art pass after
+// launch). They sit in the SVG as <image>s on whole game pixels (x and y are
+// multiples of 3.125), so the point-sampling lands in the middle of each sprite
+// pixel and they come out exact. One letter per pixel, '.' see-through; a
+// sprite's own pal overrides SCENE_PAL (the family share one face shape with
+// their own hair and skin).
+const SCENE_PAL = { k: '#2a1a0e', h: '#22160e', H: '#4a3020', b: '#22160e', s: '#e2a978', S: '#c98a5e', r: '#e8907a',
+  m: '#7a2e22', R: '#d8445a', w: '#ffffff' };
+const SCENE_SPRITES = {"himNormal": {"rows": ["....kkkkkkk.....", "..kkhhHHhhhkkk..", ".khhHHhhhhhhhhk.", "khhHhhhhhhhhHhhk", "khhhhhhhhhHhhhhk", "khhhsshhhhhhhhhk", "khhsssshhhhhhshk", ".khssssssshhssk.", ".kshhhsssshhhsk.", "kSsskksssskkssSk", "kSskssksskssksSk", "kSsssssSSsssssSk", ".ksssssSSsssssk.", ".kssbbbbbbbbssk.", ".ksbmwwwwwwmbsk.", ".ksbbmmmmmmbbsk.", ".kSsssbbbbsssSk.", "..kSssbbbbssSk..", "...kSsbbbbsSk...", "....kSBBBBSk....", ".....kkkkkk....."], "pal": {"h": "#5a3a22", "H": "#8a5a32", "b": "#7a4a2a", "B": "#5a3420"}}, "himEat": {"rows": ["....kkkkkkk.....", "..kkhhHHhhhkkk..", ".khhHHhhhhhhhhk.", "khhHhhhhhhhhHhhk", "khhhhhhhhhHhhhhk", "khhhsshhhhhhhhhk", "khhsssshhhhhhshk", ".khssssssshhssk.", ".kshhhsssshhhsk.", "kSssssssssssssSk", "kSsskksssskkssSk", "kSsssssSSsssssSk", ".ksssssSSsssssk.", ".kssbbbbbbbbssk.", ".ksbsmmmmmmsbsk.", ".ksssmRRRRmsssk.", ".kSsssbbbbsssSk.", "..kSssbbbbssSk..", "...kSsbbbbsSk...", "....kSBBBBSk....", ".....kkkkkk....."], "pal": {"h": "#5a3a22", "H": "#8a5a32", "b": "#7a4a2a", "B": "#5a3420"}}, "himSmug": {"rows": ["....kkkkkkk.....", "..kkhhHHhhhkkk..", ".khhHHhhhhhhhhk.", "khhHhhhhhhhhHhhk", "khhhhhhhhhHhhhhk", "khhhsshhhhhhhhhk", "khhsssshhhhhhshk", ".khssssssshhssk.", ".kshhhsssshhhsk.", "kSsskksssskkssSk", "kSssskssssksssSk", "kSsssssSSsssssSk", ".ksssssSSsssssk.", ".kssbbbbbbbbssk.", ".ksbssssmmmbbsk.", ".ksssssbbsssssk.", ".kSsssbbbbsssSk.", "..kSssbbbbssSk..", "...kSsbbbbsSk...", "....kSBBBBSk....", ".....kkkkkk....."], "pal": {"h": "#5a3a22", "H": "#8a5a32", "b": "#7a4a2a", "B": "#5a3420"}}, "himFrozen": {"rows": ["....kkkkkkk.....", "..kkhhHHhhhkkk..", ".khhHHhhhhhhhhk.", "khhHhhhhhhhhHhhk", "khhhhhhhhhHhhhhk", "khhhsshhhhhhhhhk", "khhsssshhhhhhshk", ".khssssssshhssk.", ".kshhhsssshhhsk.", "kSsswwsssswwssSk", "kSsswksssswkssSk", "kSsssssSSsssssSk", ".ksssssSSsssssk.", ".kssbbbbbbbbssk.", ".ksbsssmmsssbsk.", ".ksssssmmsssssk.", ".kSsssbbbbsssSk.", "..kSssbbbbssSk..", "...kSsbbbbsSk...", "....kSBBBBSk....", ".....kkkkkk....."], "pal": {"h": "#5a3a22", "H": "#8a5a32", "b": "#7a4a2a", "B": "#5a3420"}}, "famA": {"rows": [".....kkkk.....", ".....khhk.....", "....kkkkkk....", "..kkhhHHhhkk..", ".khhHhhhhhhhk.", ".khhsssssshhk.", ".khsssssssshk.", "kSssssssssssSk", "kSssksssskssSk", "kSssssSSssssSk", ".krssssssssrk.", ".kssmssssmssk.", ".ksssmmmmsssk.", "..kSssssssSk..", "...kkkkkkkk..."], "pal": {"h": "#c9c9c9", "H": "#ececec", "s": "#f0c9a0", "S": "#d9a880"}}, "famAEw": {"rows": [".....kkkk.....", ".....khhk.....", "....kkkkkk....", "..kkhhHHhhkk..", ".khhHhhhhhhhk.", ".khhsssssshhk.", ".khsssssssshk.", "kSssssssssssSk", "kSskksssskksSk", "kSssssSSssssSk", ".krssssssssrk.", ".ksssmmmmsssk.", ".kssmssssmssk.", "..kSssssssSk..", "...kkkkkkkk..."], "pal": {"h": "#c9c9c9", "H": "#ececec", "s": "#f0c9a0", "S": "#d9a880"}}, "famB": {"rows": ["....kkkkkk....", "..kkhhHHhhkk..", ".khhHhhhhhhhk.", ".khhsssssshhk.", ".khsssssssshk.", "kSssssssssssSk", "kSssksssskssSk", "kSssssSSssssSk", ".krssssssssrk.", ".kssmssssmssk.", ".ksssmmmmsssk.", "..kSssssssSk..", "...kkkkkkkk..."], "pal": {"h": "#2a1a10", "H": "#4a3020", "s": "#c68a5e", "S": "#a8703f"}}, "famBEw": {"rows": ["....kkkkkk....", "..kkhhHHhhkk..", ".khhHhhhhhhhk.", ".khhsssssshhk.", ".khsssssssshk.", "kSssssssssssSk", "kSskksssskksSk", "kSssssSSssssSk", ".krssssssssrk.", ".ksssmmmmsssk.", ".kssmssssmssk.", "..kSssssssSk..", "...kkkkkkkk..."], "pal": {"h": "#2a1a10", "H": "#4a3020", "s": "#c68a5e", "S": "#a8703f"}}, "famC": {"rows": ["....kkkkkk....", "..kkhhHHhhkk..", ".khhHhhhhhhhk.", ".khhsssssshhk.", ".khsssssssshk.", "kSssssssssssSk", "kSssksssskssSk", "kSssssSSssssSk", ".krssssssssrk.", ".kssmssssmssk.", ".ksssmmmmsssk.", "..kSssssssSk..", "...kkkkkkkk..."], "pal": {"h": "#8a4b22", "H": "#a8642e", "s": "#e9b88f", "S": "#cf9a70"}}, "famCEw": {"rows": ["....kkkkkk....", "..kkhhHHhhkk..", ".khhHhhhhhhhk.", ".khhsssssshhk.", ".khsssssssshk.", "kSssssssssssSk", "kSskksssskksSk", "kSssssSSssssSk", ".krssssssssrk.", ".ksssmmmmsssk.", ".kssmssssmssk.", "..kSssssssSk..", "...kkkkkkkk..."], "pal": {"h": "#8a4b22", "H": "#a8642e", "s": "#e9b88f", "S": "#cf9a70"}}, "handL": {"rows": [".kkkk.", "kssssk", "kssssk", "ksssSk", "kssSSk", "kSsSk.", ".kkk.."]}, "handR": {"rows": [".kkkk.", "kssssk", "kssssk", "kSsssk", "kSSssk", ".kSsSk", "..kkk."]}, "handPoint": {"rows": [".kkkk.......", "kssssk......", "ksssskkkkkk.", "kssssssssssk", "kSsssskkkkk.", "kSSssk......", ".kkkk......."]}, "cat": {"rows": [".k.....k..........", "kpk...kpk.........", "kcckkkkcck........", "kcccccccck........", "kcykccykck........", "kcccccccck........", "kccccpccck........", ".kcccccck.........", "..kccccccck.......", ".kcccccccCck......", ".kccccccccCck.....", "kcccccccccCck..kk.", "kcccccccccCck.kcck", "kcckccccckcck..kck", "kcckccccckccckkkck", ".kkkkkkkkkkkkkkkk."], "pal": {"k": "#0e0e12", "c": "#2b2b33", "C": "#4a4a58", "y": "#f5d34a", "p": "#f27d92"}}};
+for (const im of document.querySelectorAll('#scene image[data-spr]')) {
+  const sp = SCENE_SPRITES[im.dataset.spr], rows = sp.rows, pal = Object.assign({}, SCENE_PAL, sp.pal);
+  const c = document.createElement('canvas'); c.width = rows[0].length; c.height = rows.length;
+  const x = c.getContext('2d');
+  rows.forEach((r, j) => [...r].forEach((ch, i) => { if (pal[ch]) { x.fillStyle = pal[ch]; x.fillRect(i, j, 1, 1); } }));
+  im.setAttribute('href', c.toDataURL());
+  im.setAttribute('width', c.width * 3.125); im.setAttribute('height', c.height * 3.125);
+}
+
 // ---------- 16-bit look (decided 20 Nov, Randi: "can we go 8bit? or really 16 bit?") ----------
 // The scene is still drawn as one SVG, so the poses, reactions and clouds stay
 // simple CSS and DOM. A copy of it, with each element's live (mid-animation)
@@ -816,7 +807,7 @@ update();
   const b = big.getContext('2d', { willReadFrequently: true });
   const frame = o.createImageData(W, H);
   const els = [svg, ...svg.querySelectorAll('*')];
-  const PROPS = ['display', 'opacity', 'transform', 'transform-origin', 'transform-box', 'filter'];
+  const PROPS = ['display', 'opacity', 'transform', 'transform-origin', 'transform-box', 'filter', 'image-rendering'];
   let loading = false;
   // Pixel-art outlines (decided 20 Nov, from Randi's Stardew-style references):
   // where two colours meet with a big jump in brightness, the darker side gets
